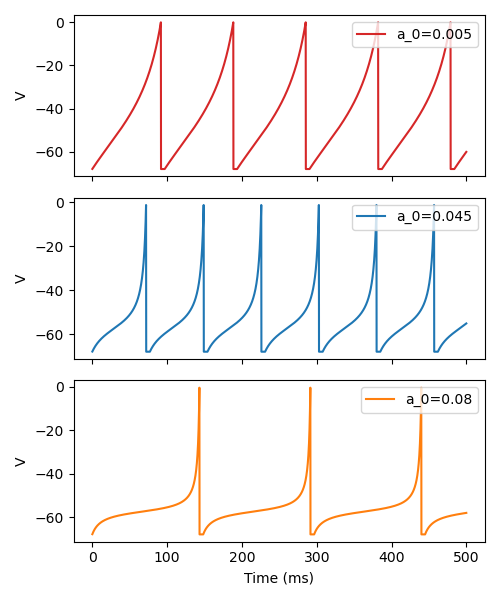
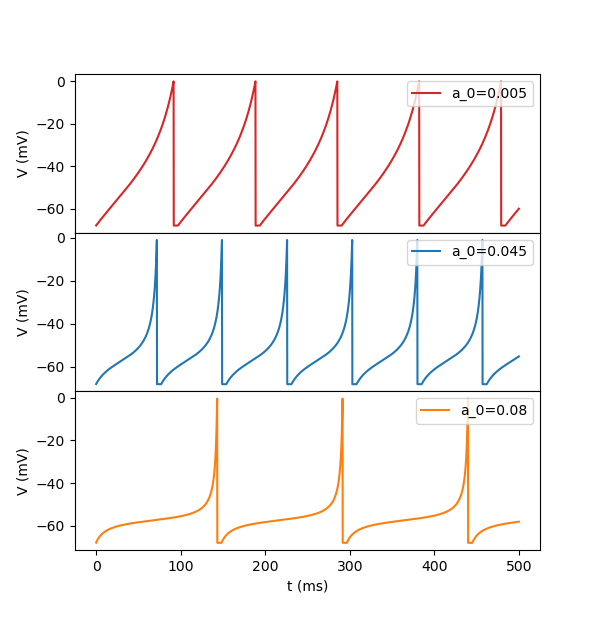
modifications

diff --git a/neuron_models/QIF_model.py b/neuron_models/QIF_model.py
@@ -26,7 +26,7 @@ class QIF(bp.NeuGroup):
     self.spike = bm.Variable(bm.zeros(self.num, dtype=bool))  # 脉冲发放状态
 
     # 使用指数欧拉方法进行积分
-    self.integral = bp.odeint(f=self.derivative, method='exponential_euler')
+    self.integral = bp.odeint(f=self.derivative, method='exp_auto')
 
   # 定义膜电位关于时间变化的微分方程
   def derivative(self, V, t, I_ext):
@@ -46,43 +46,34 @@ class QIF(bp.NeuGroup):
     self.input[:] = 0.  # 重置外界输入
 
 
-# 运行QIF模型
-group = QIF(1)
-runner = bp.StructRunner(group, monitors=['V'], inputs=('input', 6.))
-runner(500)  # 运行时长为500ms
-# 结果可视化
-plt.plot(runner.mon.ts, runner.mon.V)
-plt.xlabel('t (ms)')
-plt.ylabel('V')
-plt.show()
+# # 运行QIF模型
+# group = QIF(1)
+# runner = bp.StructRunner(group, monitors=['V'], inputs=('input', 6.))
+# runner(500)  # 运行时长为500ms
+# # 结果可视化
+# plt.plot(runner.mon.ts, runner.mon.V)
+# plt.xlabel('t (ms)')
+# plt.ylabel('V')
+# plt.show()
 
 
-# duration = 500
+def QIF_plot(input, duration, color):
+  neu = QIF(1)
+  neu.V[:] = bm.array([-68.])
+  runner = bp.StructRunner(neu, monitors=['V'], inputs=('input', input))
+  runner(duration)
+  plt.plot(runner.mon.ts, runner.mon.V, color=color, label='input={}'.format(input))
+
+
+inputs = [0., 3., 4., 5.]
+# colors = [u'#9467bd', u'#d62728', u'#1f77b4', u'#ff7f0e']
+colors = [u'#2ca02c', u'#d62728', u'#1f77b4', u'#ff7f0e']
+dur = 500
+
+# for i in range(len(inputs)):
+#   QIF_plot(inputs[i], dur, colors[i])
 #
-# neu1 = QIF(1)
-# neu1.V[:] = bm.array([-68.])
-# runner = bp.StructRunner(neu1, monitors=['V'], inputs=('input', 0.))
-# runner(duration)
-# bp.visualize.line_plot(runner.mon.ts, runner.mon.V, ylabel='V',
-#                        color=u'#9467bd', legend='input=0', show=False)
-#
-# neu1 = QIF(1)
-# neu1.V[:] = bm.array([-68.])
-# runner = bp.StructRunner(neu1, monitors=['V'], inputs=('input', 3.))
-# runner(duration)
-# bp.visualize.line_plot(runner.mon.ts, runner.mon.V, ylabel='V',
-#                        color=u'#d62728', legend='input=3', show=False)
-#
-# neu2 = QIF(1)
-# neu2.V[:] = bm.array([-68.])
-# runner = bp.StructRunner(neu2, monitors=['V'], inputs=('input', 4.))
-# runner(duration)
-# bp.visualize.line_plot(runner.mon.ts, runner.mon.V, ylabel='V',
-#                        color=u'#1f77b4', legend='input=4', show=False)
-#
-# neu2 = QIF(1)
-# neu2.V[:] = bm.array([-68.])
-# runner = bp.StructRunner(neu2, monitors=['V'], inputs=('input', 5.))
-# runner(duration)
-# bp.visualize.line_plot(runner.mon.ts, runner.mon.V, ylabel='V',
-#                        color=u'#ff7f0e', legend='input=5', show=True)
+# plt.xlabel('t (ms)')
+# plt.ylabel('V (mV)')
+# plt.legend()
+# plt.show()

diff --git a/model_analysis/QIF_dudt.py b/model_analysis/QIF_dudt.py
@@ -3,38 +3,51 @@ import numpy as np
 
 from neuron_models.QIF_model import QIF
 
-qif = QIF(1)
-Vs = np.linspace(-80, -30, 200)
+# qif = QIF(1)
+# Vs = np.linspace(-80, -30, 200)
+#
+# fig, axes = plt.subplots(1, 3, figsize=(15, 4.5), sharey='col')
+#
+# # I_ext = 0
+# ax = axes[0]
+# dvdts = qif.derivative(Vs, 0., 0.)
+# ax.plot(Vs, np.zeros(200), '--', color=u'#333333')
+# ax.plot(Vs, dvdts)
+# ax.set_title('External Input = 0')
+# ax.set_xlim(-80, -30)
+# ax.set_xlabel('V')
+# ax.set_ylabel('dV/dt')
+#
+# # I_ext = 3
+# ax = axes[1]
+# dvdts = qif.derivative(Vs, 0., 3.)
+# ax.plot(Vs, np.zeros(200), '--', color=u'#333333')
+# ax.plot(Vs, dvdts)
+# ax.set_title('External Input = 3')
+# ax.set_xlim(-80, -30)
+# ax.set_xlabel('V')
+#
+# # I_ext = 10
+# ax = axes[2]
+# dvdts = qif.derivative(Vs, 0., 10.)
+# ax.plot(Vs, np.zeros(200), '--', color=u'#333333')
+# ax.plot(Vs, dvdts)
+# ax.set_title('External Input = 10')
+# ax.set_xlim(-80, -30)
+# ax.set_xlabel('V')
+#
+# ax.get_shared_y_axes().join(axes[0], axes[1], axes[2])
+# plt.show()
 
-fig, axes = plt.subplots(1, 3, figsize=(15, 4.5), sharey='col')
+import brainpy as bp
 
-# I_ext = 0
-ax = axes[0]
-dvdts = qif.derivative(Vs, 0., 0.)
-ax.plot(Vs, np.zeros(200), '--', color=u'#333333')
-ax.plot(Vs, dvdts)
-ax.set_title('External Input = 0')
-ax.set_xlim(-80, -30)
-ax.set_xlabel('V')
-ax.set_ylabel('dV/dt')
+bp.math.enable_x64()
 
-# I_ext = 3
-ax = axes[1]
-dvdts = qif.derivative(Vs, 0., 3.)
-ax.plot(Vs, np.zeros(200), '--', color=u'#333333')
-ax.plot(Vs, dvdts)
-ax.set_title('External Input = 3')
-ax.set_xlim(-80, -30)
-ax.set_xlabel('V')
-
-# I_ext = 10
-ax = axes[2]
-dvdts = qif.derivative(Vs, 0., 10.)
-ax.plot(Vs, np.zeros(200), '--', color=u'#333333')
-ax.plot(Vs, dvdts)
-ax.set_title('External Input = 10')
-ax.set_xlim(-80, -30)
-ax.set_xlabel('V')
-
-ax.get_shared_y_axes().join(axes[0], axes[1], axes[2])
-plt.show()
+pp = bp.analysis.PhasePlane1D(
+  model=QIF(1),
+  target_vars={'V': [-80, -30]},
+  pars_update={'I_ext': 0.},
+  resolutions=0.001
+)
+pp.plot_vector_field()
+pp.plot_fixed_point(show=True)

diff --git a/model_analysis/QIF_a0.py b/model_analysis/QIF_a0.py
@@ -6,14 +6,14 @@ import matplotlib.pyplot as plt
 
 duration = 500
 
-fig, (ax1, ax2, ax3) = plt.subplots(3, 1, figsize=(5, 6), sharex=True)
+fig, (ax1, ax2, ax3) = plt.subplots(3, 1, figsize=(6, 6), sharex=True)
 
 neu1 = QIF(1, a_0=0.005)
 neu1.V[:] = bm.array([-68.])
 runner = bp.StructRunner(neu1, monitors=['V'], inputs=('input', 5.))
 runner(duration)
 ax1.plot(runner.mon.ts, runner.mon.V, color=u'#d62728', label='a_0=0.005')
-ax1.set_ylabel('V')
+ax1.set_ylabel('V (mV)')
 ax1.legend(loc='upper right')
 
 neu1 = QIF(1, a_0=0.045)
@@ -21,7 +21,7 @@ neu1.V[:] = bm.array([-68.])
 runner = bp.StructRunner(neu1, monitors=['V'], inputs=('input', 5.))
 runner(duration)
 ax2.plot(runner.mon.ts, runner.mon.V, color=u'#1f77b4', label='a_0=0.045')
-ax2.set_ylabel('V')
+ax2.set_ylabel('V (mV)')
 ax2.legend(loc='upper right')
 
 neu1 = QIF(1, a_0=0.08)
@@ -29,9 +29,9 @@ neu1.V[:] = bm.array([-68.])
 runner = bp.StructRunner(neu1, monitors=['V'], inputs=('input', 5.))
 runner(duration)
 ax3.plot(runner.mon.ts, runner.mon.V, color=u'#ff7f0e', label='a_0=0.08')
-ax3.set_ylabel('V')
-ax3.set_xlabel('Time (ms)')
+ax3.set_ylabel('V (mV)')
+ax3.set_xlabel('t (ms)')
 ax3.legend(loc='upper right')
 
-plt.tight_layout()
+plt.subplots_adjust(hspace=0.)
 plt.show()
